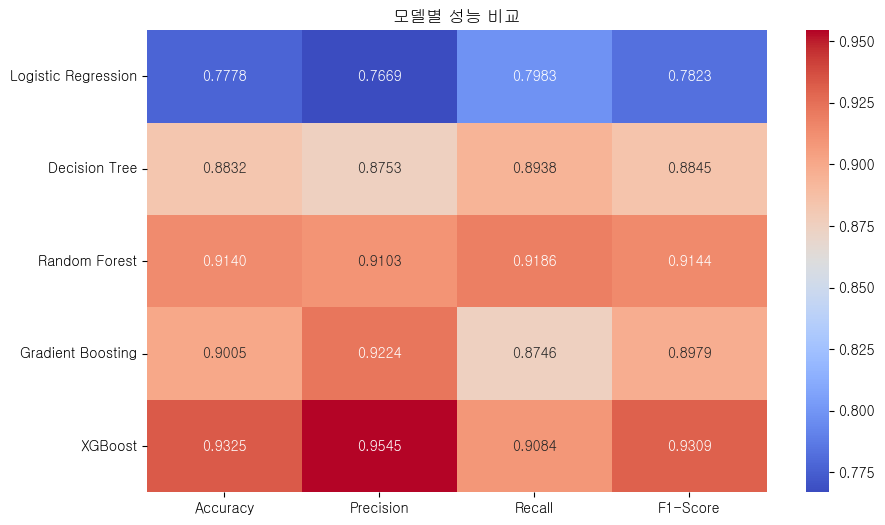
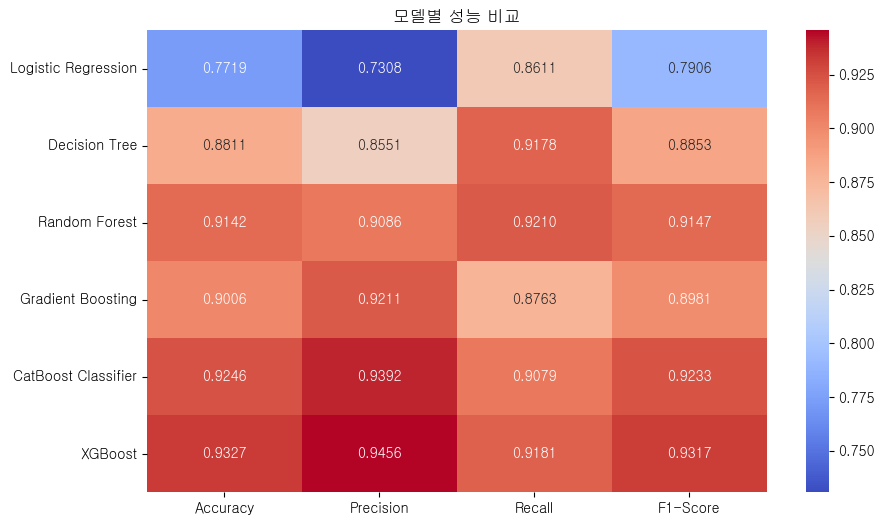
readme update

diff --git a/README.md b/README.md
@@ -341,9 +341,39 @@ GradientBoostingClassifier:
    macro avg       0.90      0.90      0.90     27782
 weighted avg       0.90      0.90      0.90     27782
 ```
+
 <br>
 
-<img width="1000" height="500" alt="Image" src="./image/GradientBoost.png" />
+- ### CatboostCalssifier : 캣부스트 분류기 <br>
+
+```
+CatBoostClassifier:
+🔍 최적 임계값 (Optimal threshold): 0.46
+✅ 학습 정확도: 0.9269293530428105
+
+✅ 정확도 (Accuracy): 0.9245914620977611
+✅ 정밀도 (Precision): 0.9392314566577301
+✅ 재현율 (Recall): 0.9079259952487222
+✅ F1 Score: 0.9233134448552289
+
+📊 혼동 행렬 (Confusion Matrix):
+ [[13075   816]
+ [ 1279 12612]]
+
+📋 분류 리포트 (Classification Report):
+               precision    recall  f1-score   support
+
+           0       0.91      0.94      0.93     13891
+           1       0.94      0.91      0.92     13891
+
+    accuracy                           0.92     27782
+   macro avg       0.93      0.92      0.92     27782
+weighted avg       0.93      0.92      0.92     27782
+```
+
+<br>
+
+<img width="1000" height="500" alt="Image" src="./image/CatBoostClassifier.png" />
 
 <br>
 
